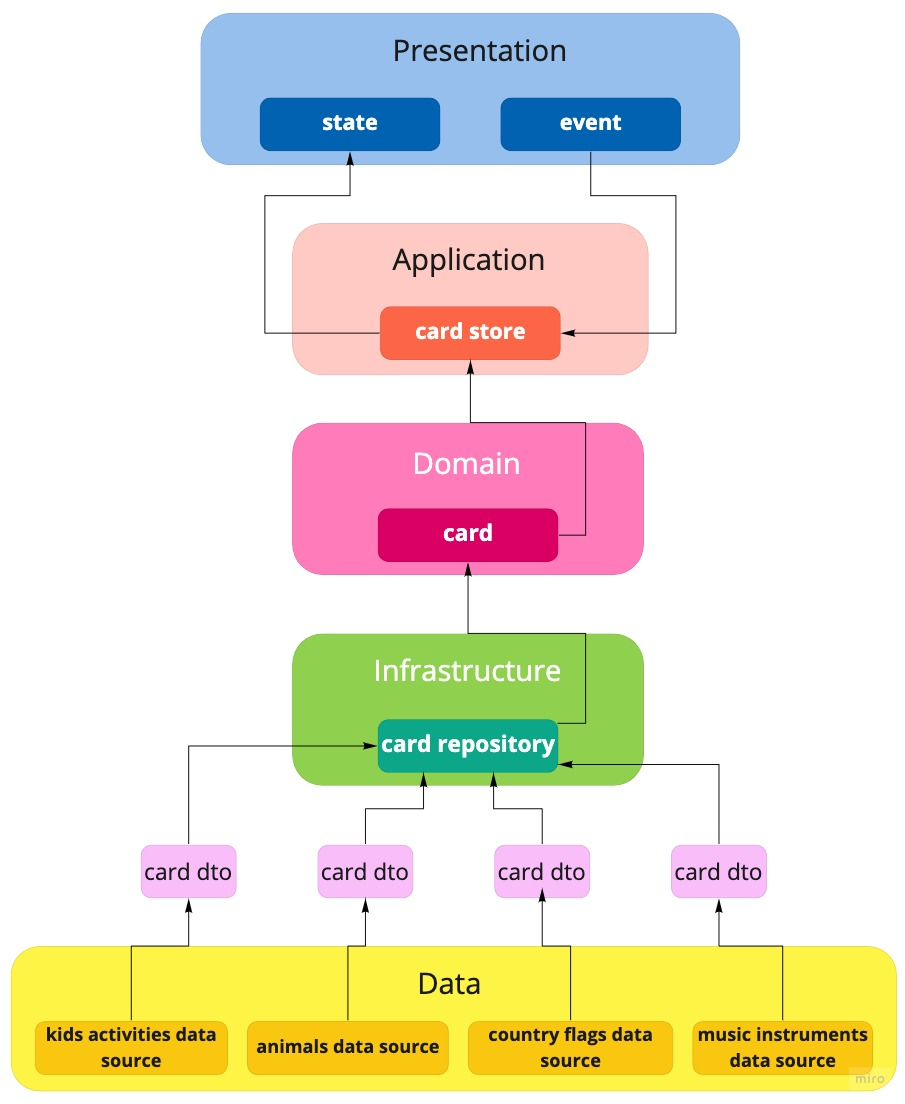
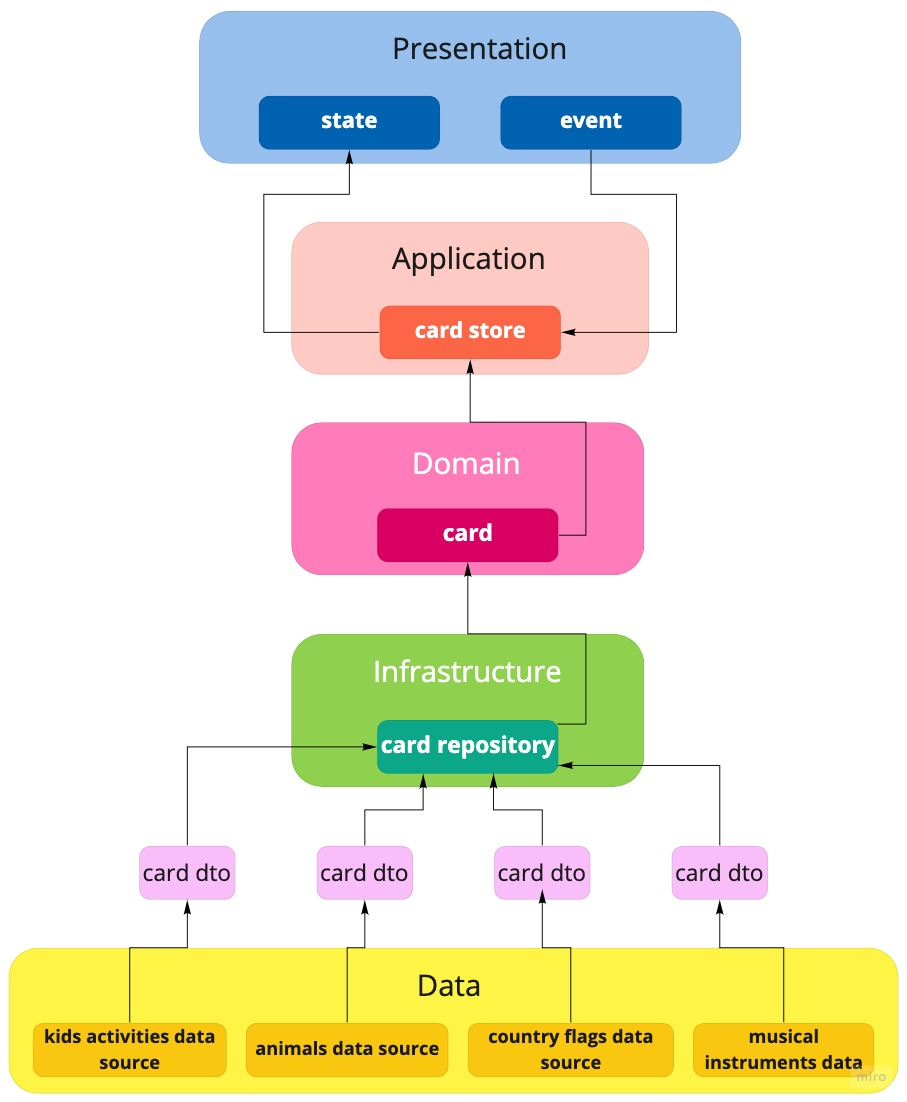
Change MusicInstruments class name to Musicalnstruments.

diff --git a/lib/presentation/core/misc/card_type_menu.dart b/lib/presentation/core/misc/card_type_menu.dart
@@ -3,7 +3,7 @@ import 'package:kt_dart/collection.dart';
 import '../../../data/card/animals_data_source.dart';
 import '../../../data/card/country_flags_data_source.dart';
 import '../../../data/card/kids_activities_data_source.dart';
-import '../../../data/card/music_instruments_data_source.dart';
+import '../../../data/card/musical_instruments_data_source.dart';
 import '../../../infrastructure/card/card_data_source.dart';
 
 class CardTypeMenuItem {
@@ -43,7 +43,7 @@ class CardTypeMenu {
       CardTypeMenuItem(
         name: 'Instrumentos musicais',
         image: '$imagePath/music_instruments.png',
-        cardDataSource: MusicInstrumentsDataSource(),
+        cardDataSource: MusicalInstrumentsDataSource(),
       ),
     );
   }

diff --git a/lib/data/card/musical_instruments_data_source.dart b/lib/data/card/musical_instruments_data_source.dart
@@ -1,7 +1,7 @@
 import '../../infrastructure/card/card_data_source.dart';
 import '../../infrastructure/card/card_dto.dart';
 
-class MusicInstrumentsDataSource implements CardDataSource {
+class MusicalInstrumentsDataSource implements CardDataSource {
   @override
   // ignore: long-method
   List<CardDto> create() {
